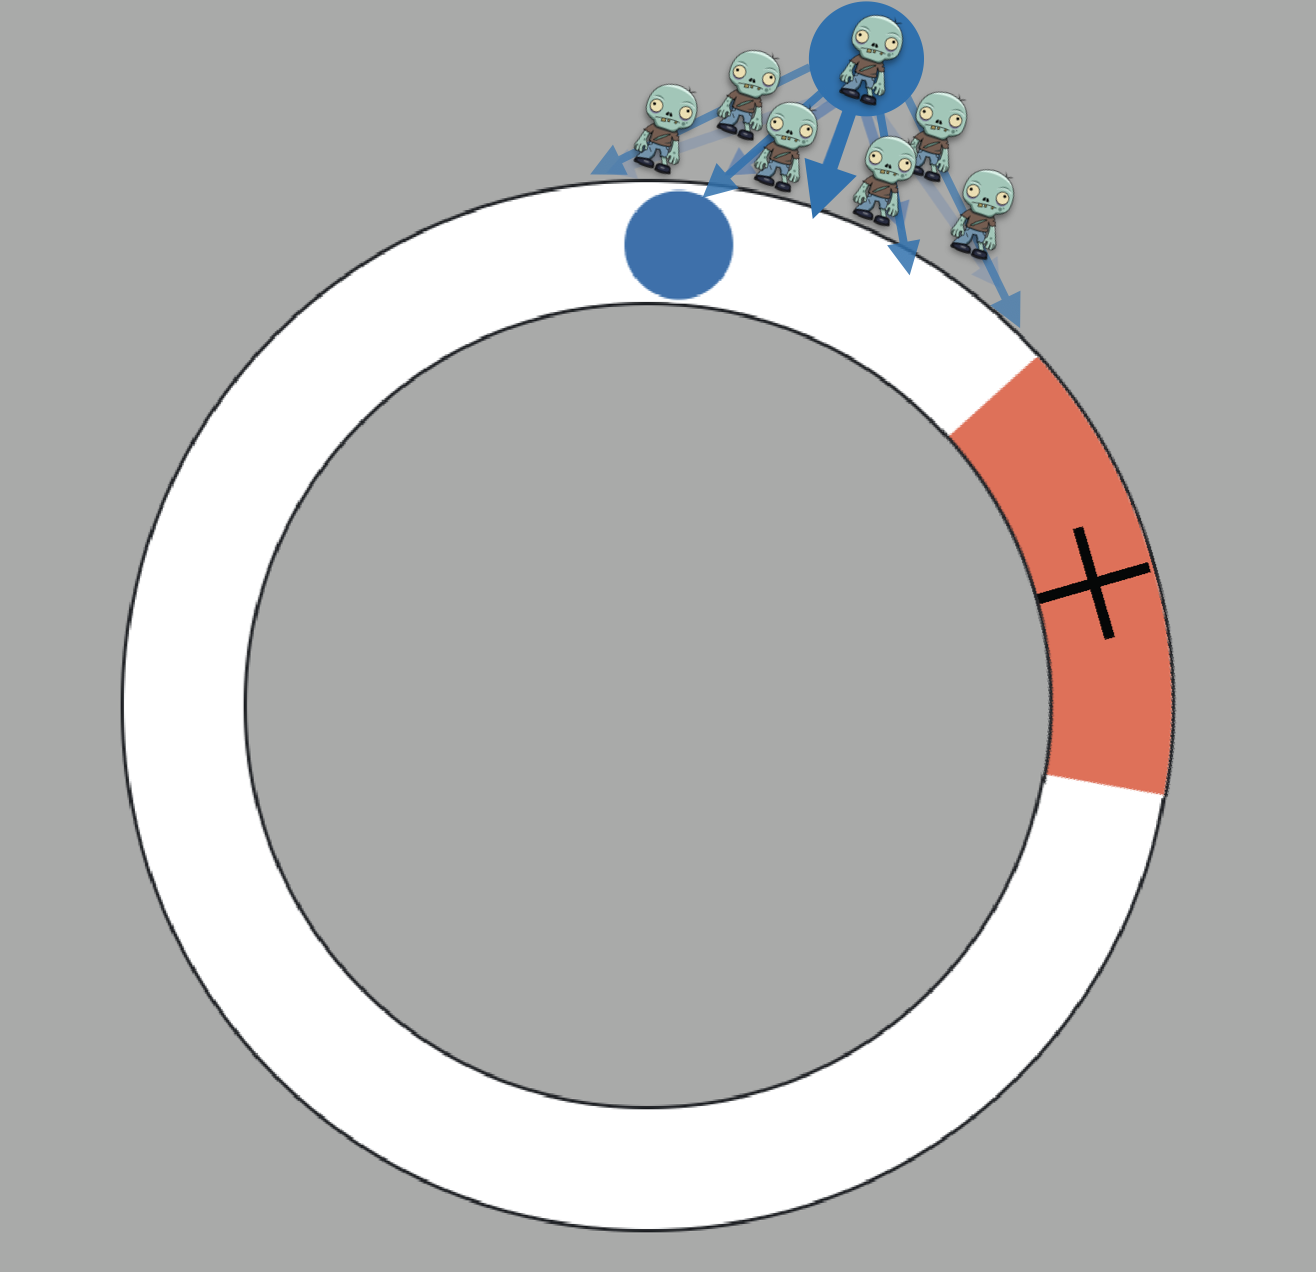
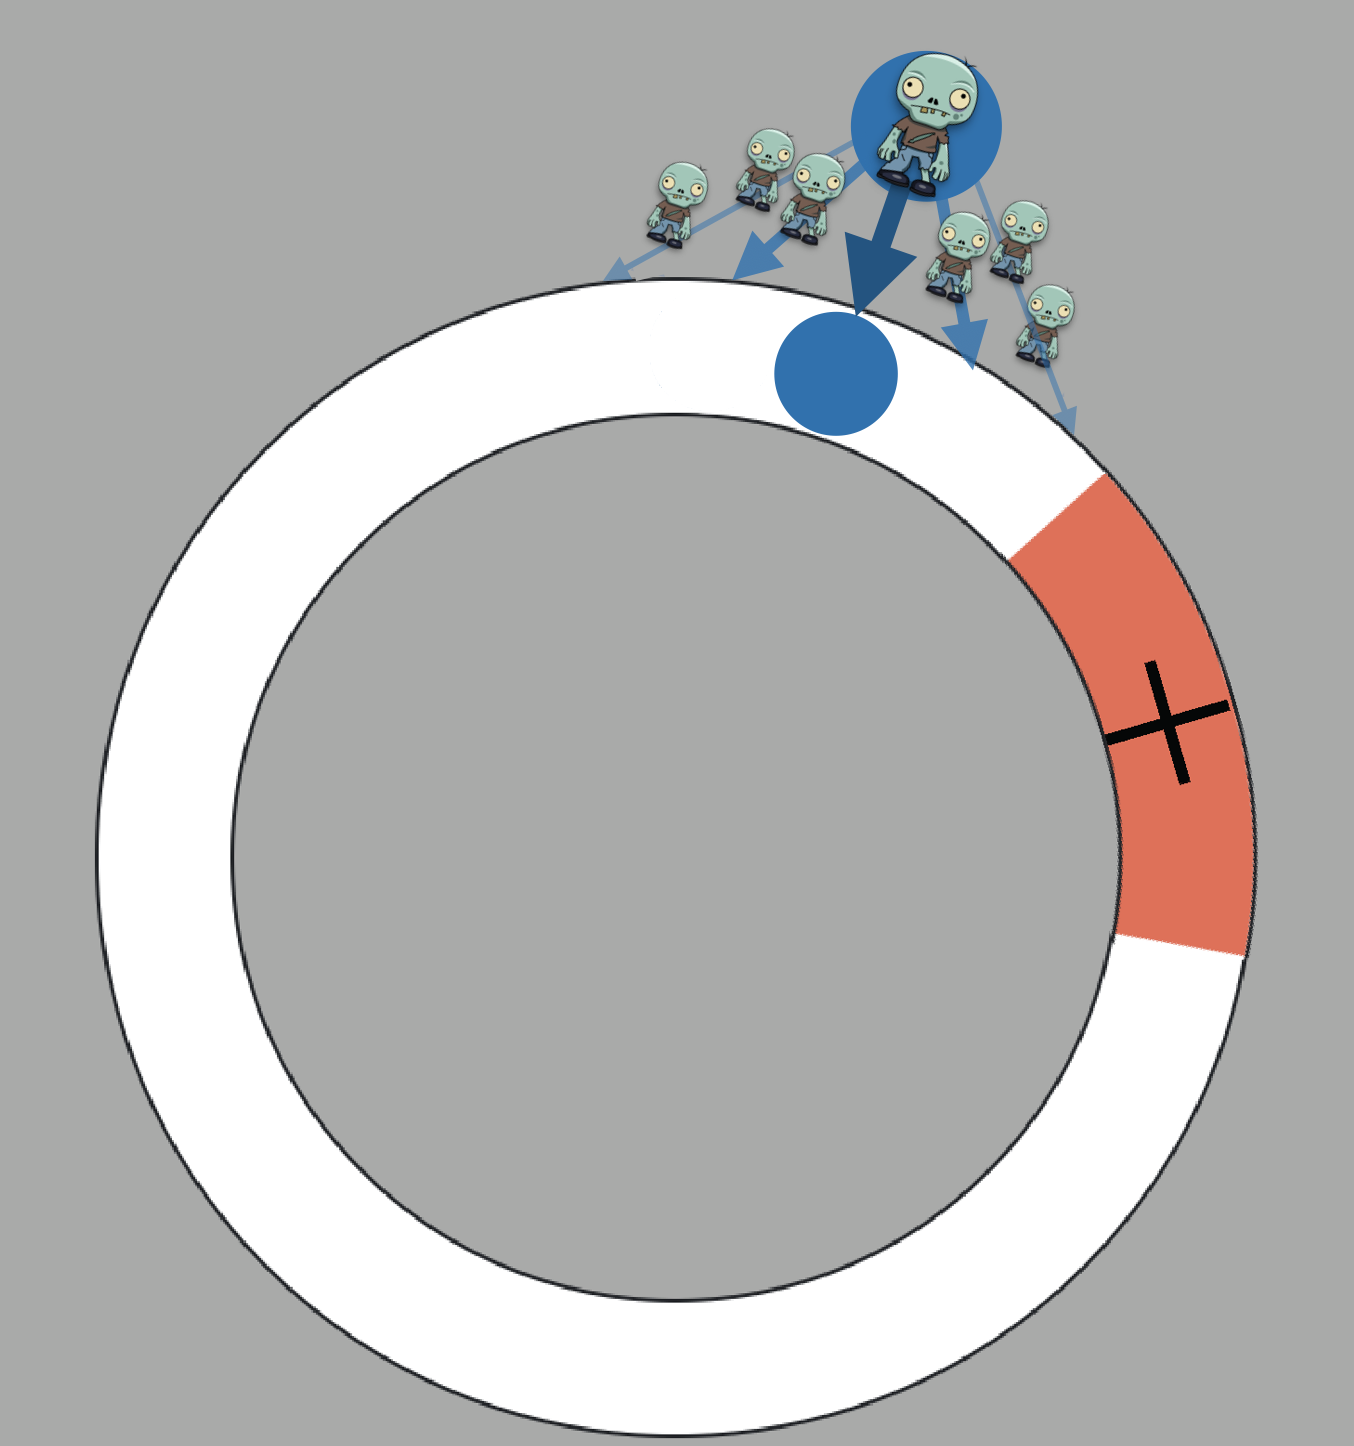
task images edits

Changed region(s): [[0.0623, 0.3679, 0.9347, 1.0], [0.1246, 0.0, 0.8412, 0.4292]]

diff --git a/src/timelines/main.js b/src/timelines/main.js
@@ -169,12 +169,12 @@ function buildTimeline(jsPsych) {
     </div>
     `,
       // pg 5
-      `<div><img src=${images['taskImg4_large.png']} style='top:30%; left: 10% ;height:375px;width: auto'>
+      `<div><img src=${images['taskImg4_large.png']} style='top:30%; left: 10% ;height:425px;width: auto'>
 
-      <p style='width: 960px;line-height:1.75;text-align:left'><br>
+      <p style='width: 960px;line-height:1.8;text-align:left'>
       <br>Each group of zombies has a preferred attack location. However, due to their unpredictable clumsiness, <b>they won't always hit the exact same spot.</b>
-      <br> In the picture above, the preferred attack location of the blue zombie is depicted by the smaller circle above the perimeter and the dark arrow.
-      <br> The various paths the zombies may stagger down(away from their preferred location) are represented by the arrows, with lighter arrows indicating less likely attack locations.
+      <br> In the picture above, the preferred attack location of the blue zombies is depicted by the <b>dark arrow</b> coming from the smaller circle above the perimeter.
+      <br> The various paths the zombies may stagger down (away from their preferred location) are represented by the arrows, with lighter arrows indicating less likely attack locations.
       <br><b>Tip:</b> try to find their preferred attack location and place your bomb there.
       </div>`,
 
@@ -187,7 +187,7 @@ function buildTimeline(jsPsych) {
   var practice_instruction1 = {
     type: jsPsychHtmlButtonResponse,
     choices: ['Start'],
-    stimulus: `<div><img src=${images['taskImg6.png']} style='top:10%; left: 10% ;height:450px;width: 450px'><h1></h1> 
+    stimulus: `<div><img src=${images['taskImg6.png']} style='top:10%; left: 10% ;height:475px;width: auto'><h1></h1> 
       <h2>Practice Round 1: Known Attack Spot </h2>
       <p style='width: 960px;line-height:2;text-align:left'>
       <b>Here's a hint:</b> In this round, the zombies preferred attack location is <u> 12 o'clock</u> (shown in image above).
@@ -200,7 +200,7 @@ var practice_instruction2={
     choices: ['Start'],
     stimulus: `
     <div><<img src=${images['zombie.png']} style='top:20%; left: 10% ;height:300px;width:auto'><h1></h1>
-      <h2>Practice Round 2: Find the Attack Spot Yourself</h2>
+      <h2>Practice Round 2: Find the Attack Location Yourself</h2>
       <p style='width: 960px;line-height:2;text-align:center'><br>
       <br>In the next practice, we <strong> will not</strong> show you the zombies preferred attack location ahead of time.
       <br>You must <b>figure out their general attack location on your own</b>. This will be true for the rest of the task.
@@ -238,7 +238,7 @@ var practice_instruction2={
     type: jsPsychInstructions,
     pages:[
         // pg 6
-      `<div><img src=${images['taskImg5.png']} style='top:20%; left: 10% ;height:400px;width: auto'><h1></h1> 
+      `<div><img src=${images['taskImg5_new.png']} style='top:20%; left: 10% ;height:400px;width: auto'><h1></h1> 
       <p style='width: 960px;line-height:2;text-align:left'><br>
       <br>It's also important to note that zombies of the same color will <b>occasionally redirect their attacks to a completely new location on the perimeter.</b>
       </div>`,
@@ -398,7 +398,7 @@ var free_response_feedback = {
     type: jsPsychInstructions,
     pages: [
       // pg 6
-      `<div><img src=${images['taskImg5.png']} style='top:20%; left: 10% ;height:400px;width: auto'><h1></h1> 
+      `<div><img src=${images['taskImg5_new.png']} style='top:20%; left: 10% ;height:400px;width: auto'><h1></h1> 
       <p style='width: 960px;line-height:2;text-align:left'><br>
       <br>It's also important to note that zombies of the same color will <b>occasionally redirect their attacks to a completely new location.</b>
       </div>`,

diff --git a/src/js/blocksetting123.js b/src/js/blocksetting123.js
@@ -257,8 +257,21 @@ function practice_block0(timeline, jsPsych) {
       $('#arrow-tail').remove();
       let sufficientUpdates = updates.filter(u => u <= updateThreshold).length;
       console.log("updates", updates);
-      if (sufficientUpdates >= minUpdateCount) {
-        return `<div><p>Great job! You got ${totalScore} out of 10 possible points in this block. You can proceed to the next practice.</p></div>`;
+      if (sufficientUpdates >=9){
+        return `<div style= "line-height:1.75;">
+        <p>Great job! You got ${totalScore} out of 10 possible points in this block.</p>
+        <p style = "text-align: center;">
+        <br>Hitting <b> 9 out of 10 zombies </b> means that you used the best possible strategy for this block.
+        <br>The zombies stagger unpredictably, so <u>it is not always possible to hit every zombie</u>.
+        <br> You can proceed to the next practice.</p></div>`;
+      }
+      else if (sufficientUpdates >= minUpdateCount) {
+        return `<div style= "line-height:1.75;">
+        <p>Great job! You got <b>${totalScore} out of 10</b> possible points in this block.</p>
+        <p>
+        The zombies stagger unpredictably, so <u>it is not always possible to hit every zombie.</u>
+        <br> You can proceed to the next practice.</p></div>`;
+        //could include, "refining your strategy may result in more hits, but a perfect score in not expected"
       } else {
         return `<div><p>Sorry, you did not correctly aim to capture as many zombies as possible.</p>
         <p>Remember, the zombies preferred attack location is represented by the arrow. </p>
